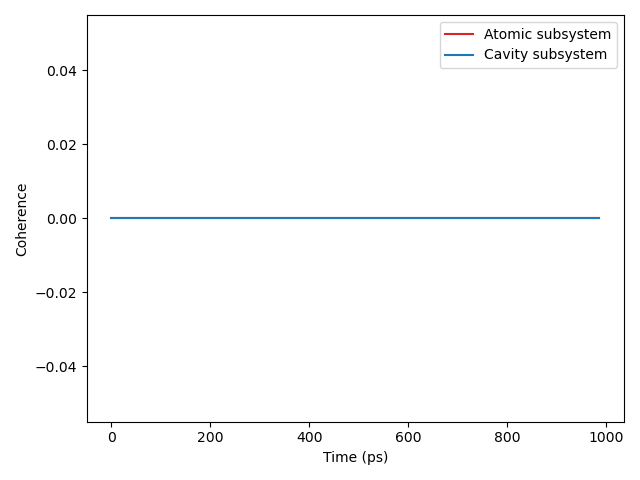
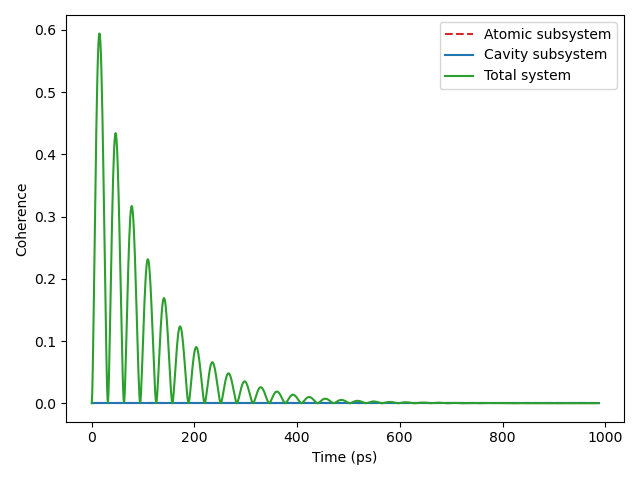
Ensures that coherence is calculated for the total system of the JCM simulations.

diff --git a/Research Project/Code/JCM_Open.py b/Research Project/Code/JCM_Open.py
@@ -64,7 +64,7 @@ neg_spont = sim_open_spont.negativity(results_open_spont, subsys="TLS")
 
 coh_tls_spont = sim_open_spont.rel_coherence(results_open_spont, subsys="TLS")
 coh_qho_spont = sim_open_spont.rel_coherence(results_open_spont, subsys="QHO")
-
+coh_tot_spont = sim_open_spont.rel_coherence(results_open_spont)
 # Thermal Dissipation
 sim_open_therm = TLSQHOSimulator(H, psi0, L_therm, e_ops, times=tlist)
 results_open_therm = sim_open_therm.evolve()
@@ -75,6 +75,7 @@ neg_therm = sim_open_therm.negativity(results_open_therm, subsys="TLS")
 
 coh_tls_therm = sim_open_therm.rel_coherence(results_open_therm, subsys="TLS")
 coh_qho_therm = sim_open_therm.rel_coherence(results_open_therm, subsys="QHO")
+coh_tot_therm = sim_open_therm.rel_coherence(results_open_therm)
 
 # Spontaneous Emission + Thermal Dissipation
 L_both = L_spont + L_therm
@@ -87,7 +88,7 @@ neg_both = sim_open_both.negativity(results_open_both, subsys="TLS")
 
 coh_tls_both = sim_open_both.rel_coherence(results_open_both, subsys="TLS")
 coh_qho_both = sim_open_both.rel_coherence(results_open_both, subsys="QHO")
-
+coh_tot_both = sim_open_both.rel_coherence(results_open_both)
 
 ############################### PLOTS #####################################
 # Negativity
@@ -137,11 +138,17 @@ sim_open_spont.plot(
             "y_data": coh_tls_spont,
             "label": "Atomic subsystem",
             "colour": "tab:red",
+            "linestyle": "--",
         },
         {
             "y_data": coh_qho_spont,
             "label": "Cavity subsystem",
             "colour": "tab:blue",
+        },
+        {
+            "y_data": coh_tot_spont,
+            "label": "Total system",
+            "colour": "tab:green",
         },
     ],
     "Coherence",
@@ -155,11 +162,17 @@ sim_open_therm.plot(
             "y_data": coh_tls_therm,
             "label": "Atomic subsystem",
             "colour": "tab:red",
+            "linestyle": "--",
         },
         {
             "y_data": coh_qho_therm,
             "label": "Cavity subsystem",
             "colour": "tab:blue",
+        },
+        {
+            "y_data": coh_tot_therm,
+            "label": "Total system",
+            "colour": "tab:green",
         },
     ],
     "Coherence",
@@ -173,11 +186,17 @@ sim_open_both.plot(
             "y_data": coh_tls_both,
             "label": "Atomic subsystem",
             "colour": "tab:red",
+            "linestyle": "--",
         },
         {
             "y_data": coh_qho_both,
             "label": "Cavity subsystem",
             "colour": "tab:blue",
+        },
+        {
+            "y_data": coh_tot_both,
+            "label": "Total system",
+            "colour": "tab:green",
         },
     ],
     "Coherence",

diff --git a/Research Project/Code/JCM_Closed.py b/Research Project/Code/JCM_Closed.py
@@ -43,6 +43,7 @@ results_expt = sim.expect(results)
 vne = sim.vne(results)
 coh_tls = sim.rel_coherence(results, subsys="TLS")
 coh_qho = sim.rel_coherence(results, subsys="QHO")
+coh_total = sim.rel_coherence(results)
 
 
 ############################### PLOTS #####################################
@@ -76,7 +77,13 @@ sim.plot(
     "CQS_coh",
     [
         {"y_data": coh_tls, "label": "Atomic subsystem", "colour": "tab:blue"},
-        {"y_data": coh_qho, "label": "Cavity subsystem", "colour": "tab:red"},
+        {
+            "y_data": coh_qho,
+            "label": "Cavity subsystem",
+            "colour": "tab:red",
+            "linestyle": "--",
+        },
+        {"y_data": coh_total, "label": "Total system", "colour": "tab:green"},
     ],
     y_label="Relative Entropy of Coherence",
     savepath="JCM",

diff --git a/Research Project/Code/TLSQHOSimulator.py b/Research Project/Code/TLSQHOSimulator.py
@@ -205,6 +205,7 @@ class TLSQHOSimulator:
 
             elif subsys == "QHO":
                 dm = dm.ptrace(1)
+
             diag_elements = dm.diag()
             dm_diag = q.Qobj(np.diag(diag_elements), dims=dm.dims)
 
